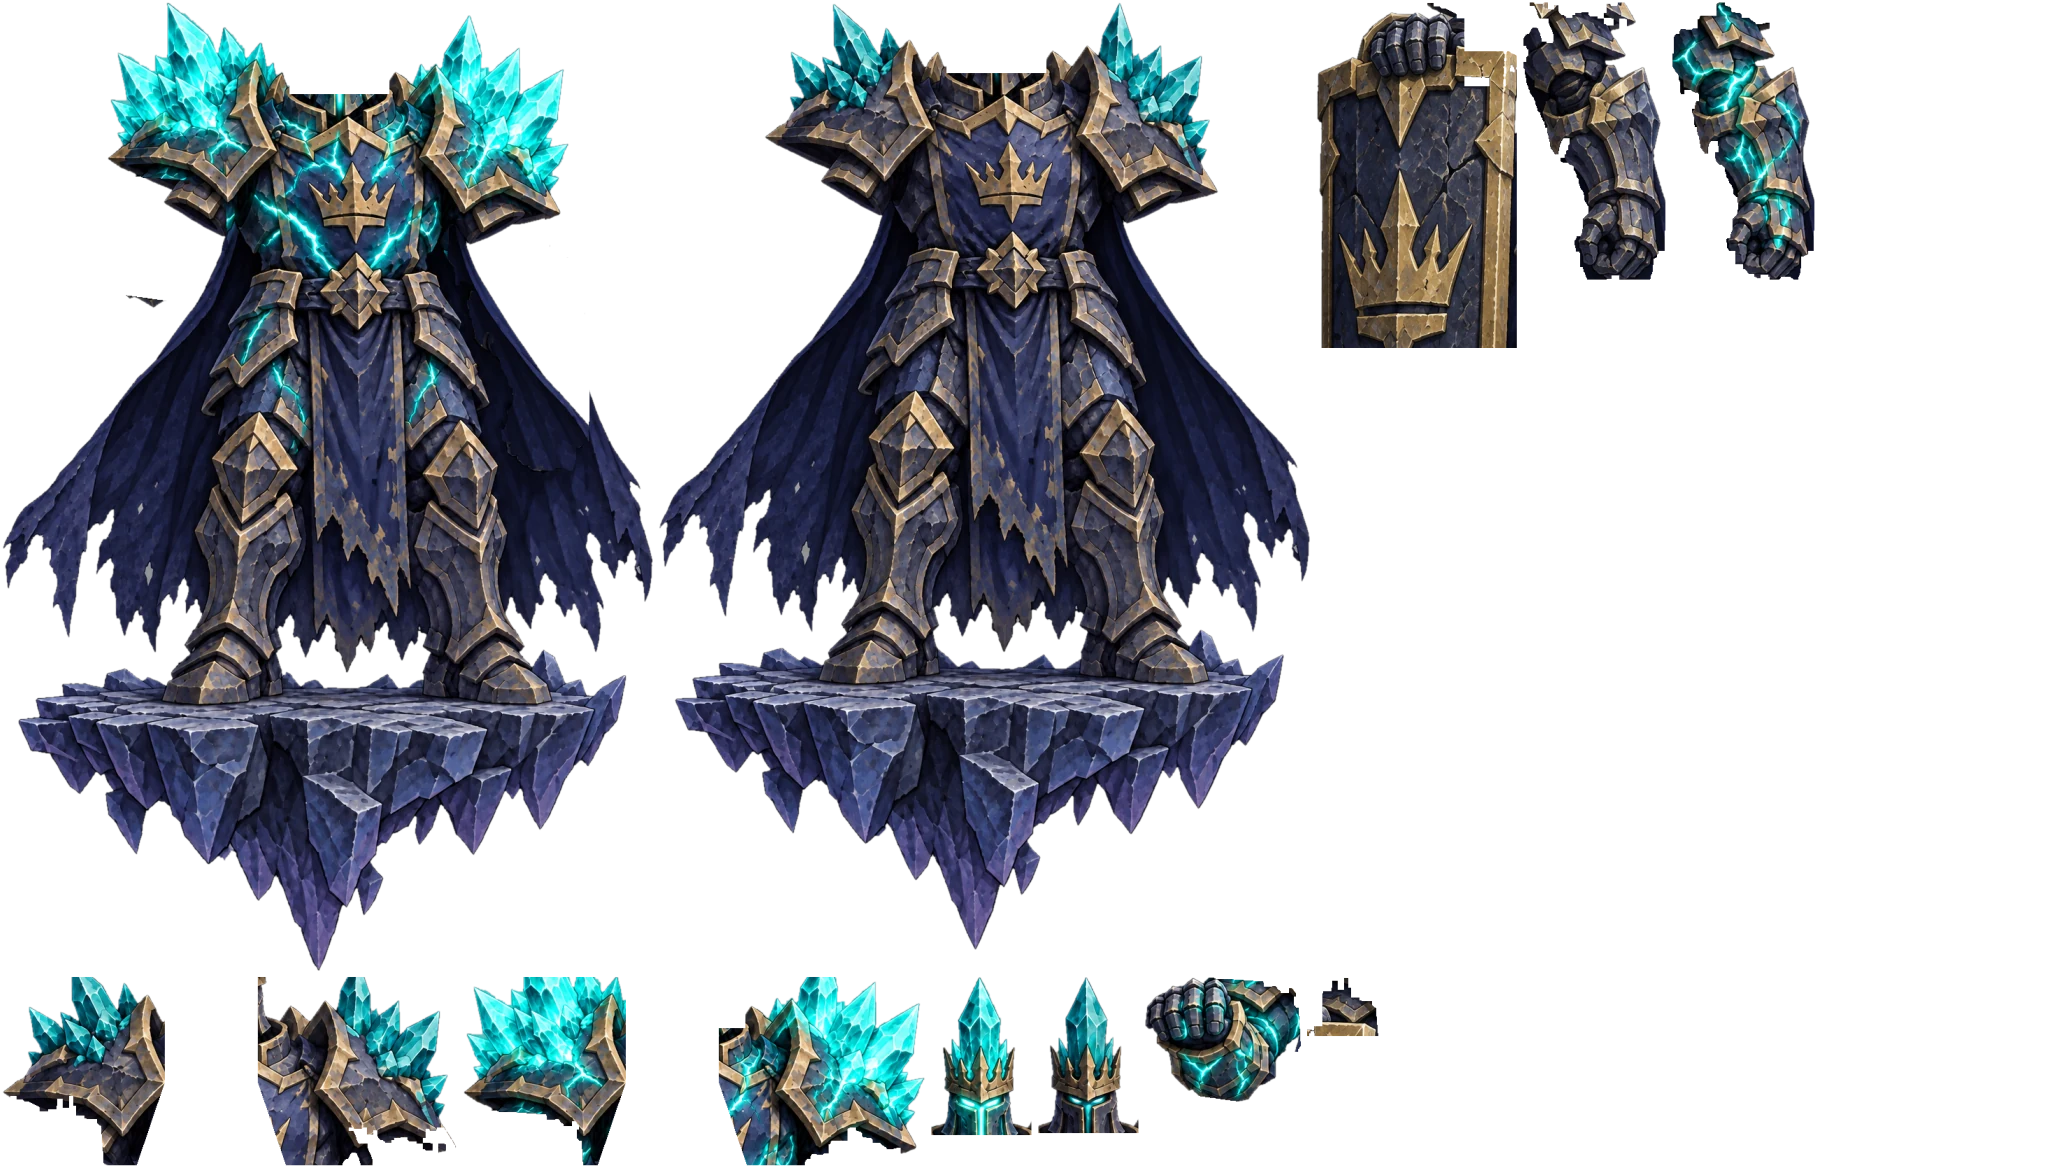
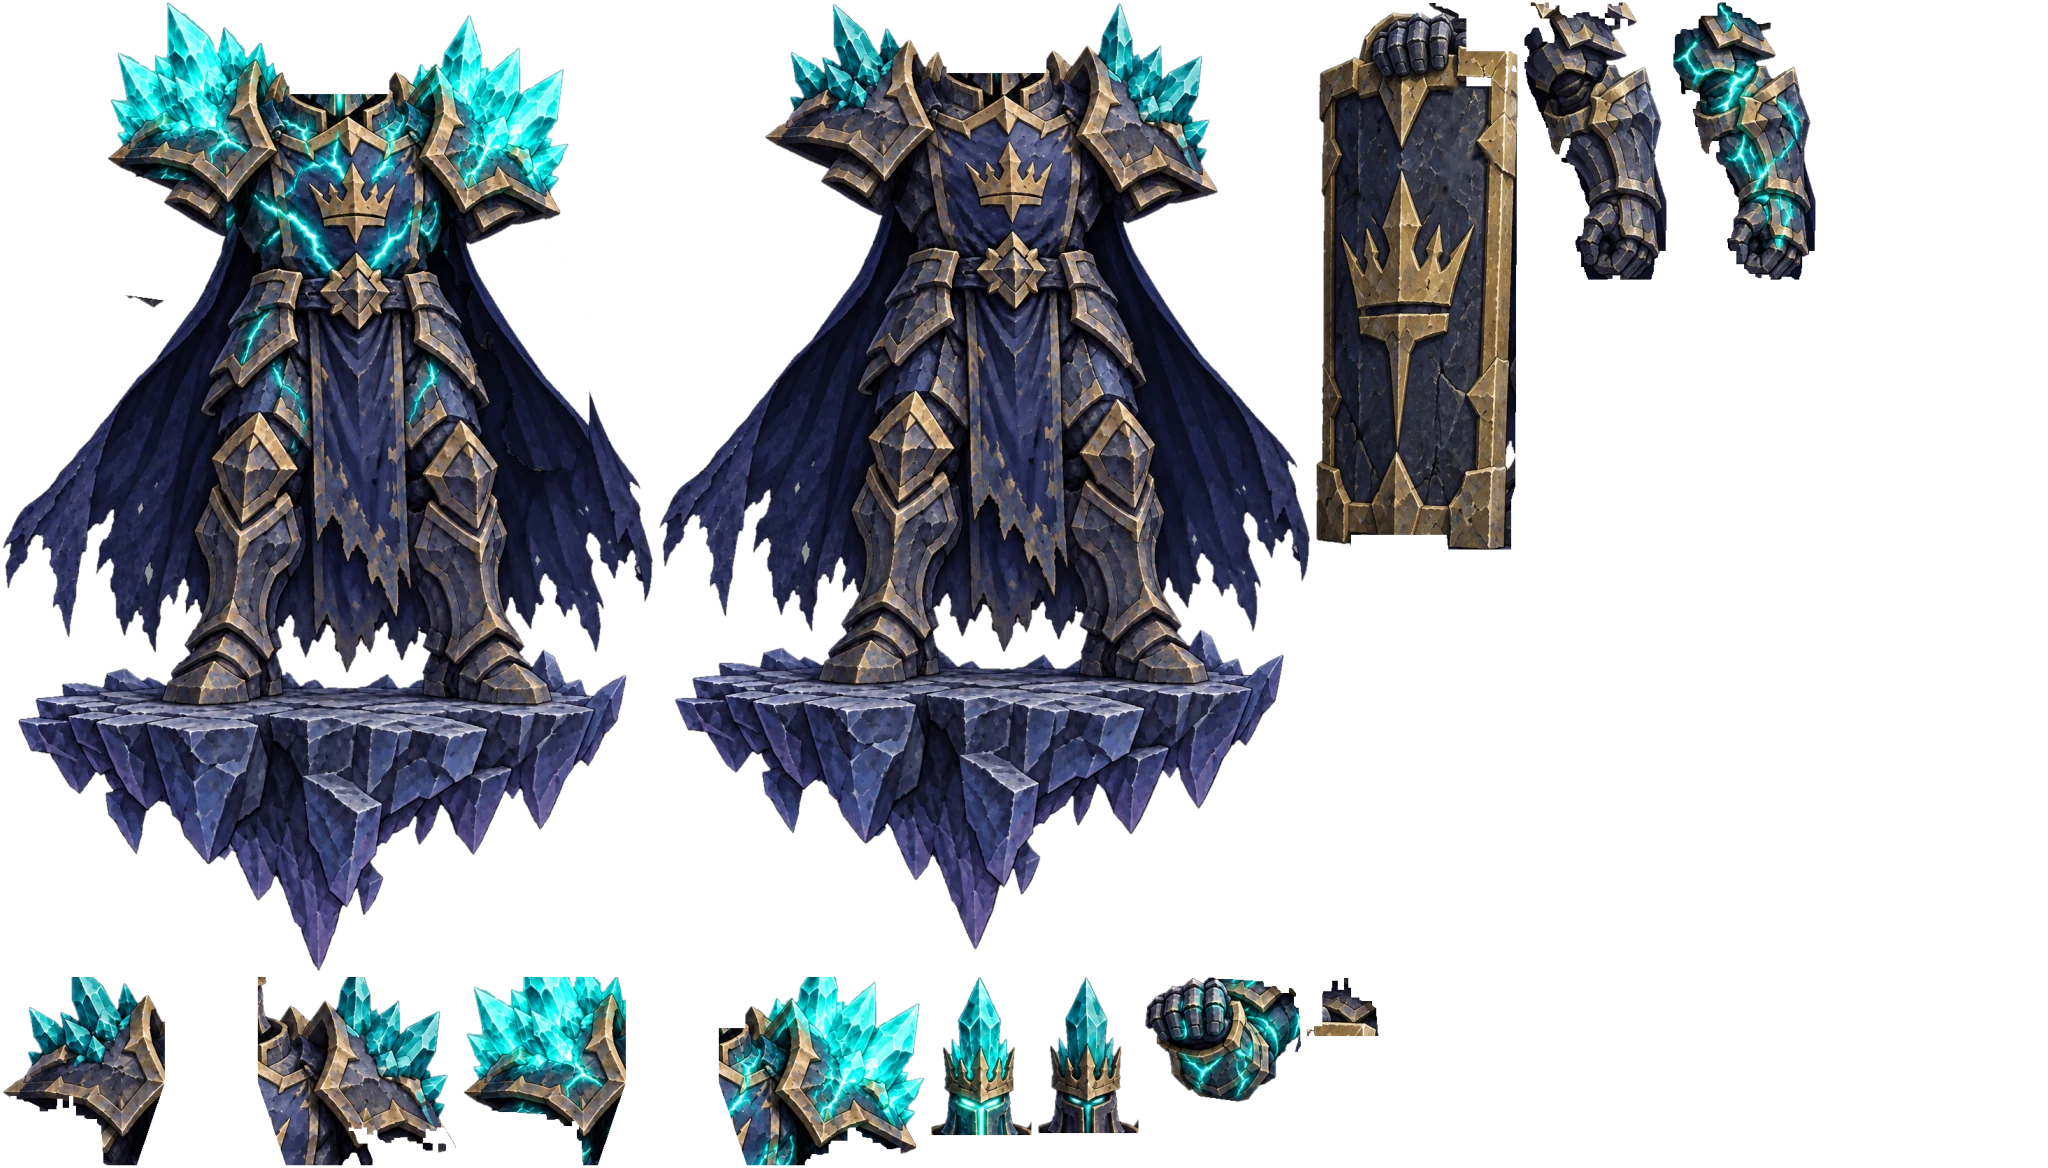
Add files via upload

Changed region(s): [[0.625, 0.0, 0.9062, 0.4932]]

diff --git a/index.html b/index.html
@@ -7536,7 +7536,7 @@ const BOSS_DEF = {
   80:{ id:"shield", name:"두 번째 문지기", tex:["boss-shield","boss-shield-2"], parts:"boss-warden",
        // 성문의 방패 수호자 — 조각 묶음 그림 boss-warden.webp (몸·머리·양팔·방패+주먹·견갑 × 1·2페이즈)
        // P: [그림 속 x, y, 너비, 높이, 원래 자리 x, y]  PV: 어깨·목 축  WRIST: 방패를 쥔 손목(방패가 따라가는 점)  SK: 방패가 팔 각도를 따라 기우는 비율
-       rig:{"kind":"multi","AW":2048,"AH":1168,"IW":716,"IH":1075,"P":{"body1":[657,0,655,952,42,104],"head1":[1036,975,105,161,329,19],"shield":[1314,0,205,350,44,242],"armL1":[1305,975,76,64,177,242],"armR1":[1521,0,147,282,487,274],"paul1":[0,975,459,193,147,124],"body2":[0,0,655,973,42,83],"head2":[929,975,105,163,329,17],"armL2":[1143,975,160,129,112,257],"armR2":[1670,0,147,282,487,274],"paul2":[461,975,466,193,147,124]},"PV":{"armL1":[231.0,283.5],"armR1":[542.5,294.0],"armL2":[241.5,294.0],"armR2":[542.5,294.0],"head1":[381.5,178.5],"head2":[381.5,178.5]},"WRIST":[187.6,278.6],"SBOT":[143.5,586.6],"SC":[143.5,437.5],"FACE":[55,300,234,578],"EYE":[382.2,143.5],"CHEST":[358.4,392.0],"SK":0.3},
+       rig:{"kind":"multi","AW":2048,"AH":1168,"IW":716,"IH":1075,"P":{"body1":[657,0,655,952,42,104],"head1":[1036,975,105,161,329,19],"shield":[1314,0,206,552,42,242],"armL1":[1305,975,76,64,177,242],"armR1":[1522,0,147,282,487,274],"paul1":[0,975,459,193,147,124],"body2":[0,0,655,973,42,83],"head2":[929,975,105,163,329,17],"armL2":[1143,975,160,129,112,257],"armR2":[1671,0,147,282,487,274],"paul2":[461,975,466,193,147,124]},"PV":{"armL1":[231.0,283.5],"armR1":[542.5,294.0],"armL2":[241.5,294.0],"armR2":[542.5,294.0],"head1":[381.5,178.5],"head2":[381.5,178.5]},"WRIST":[187.6,278.6],"SBOT":[143.5,777.0],"SC":[143.5,525.0],"FACE":[55,300,234,766],"EYE":[382.2,143.5],"CHEST":[358.4,392.0],"SK":0.3},
        eye:[0x48e8e0,0xa8fff8], eyeV:0.8665, eyeP:[[0.5338,0.8665],[0.5338,0.8665]], chestP:[0.5006,0.6353], p1:["sweep","bars"], p2:["sweep","bars","stomp","curse"],
        hp:20, rageAt:10,                              // 체력 20 — 앞 10은 방패가 받아 내고(금이 감), 방패가 깨지면 나머지 10은 몸으로
        shieldBox:[0.08,0.46,0.33,0.72] }               // (조각 그림이 없을 때만 씀)

diff --git a/sw.js b/sw.js
@@ -1,6 +1,6 @@
 /* HY ENG 서비스워커 — 게임 파일을 캐시해 두 번째부터는 오프라인에서도 실행됩니다.
    게임을 수정한 뒤에는 아래 VERSION 숫자를 꼭 올리세요. 그래야 새 버전이 반영됩니다. */
-const VERSION = "hyeng-v174";
+const VERSION = "hyeng-v176";
 const CORE = [
   "./",
   "./index.html",
